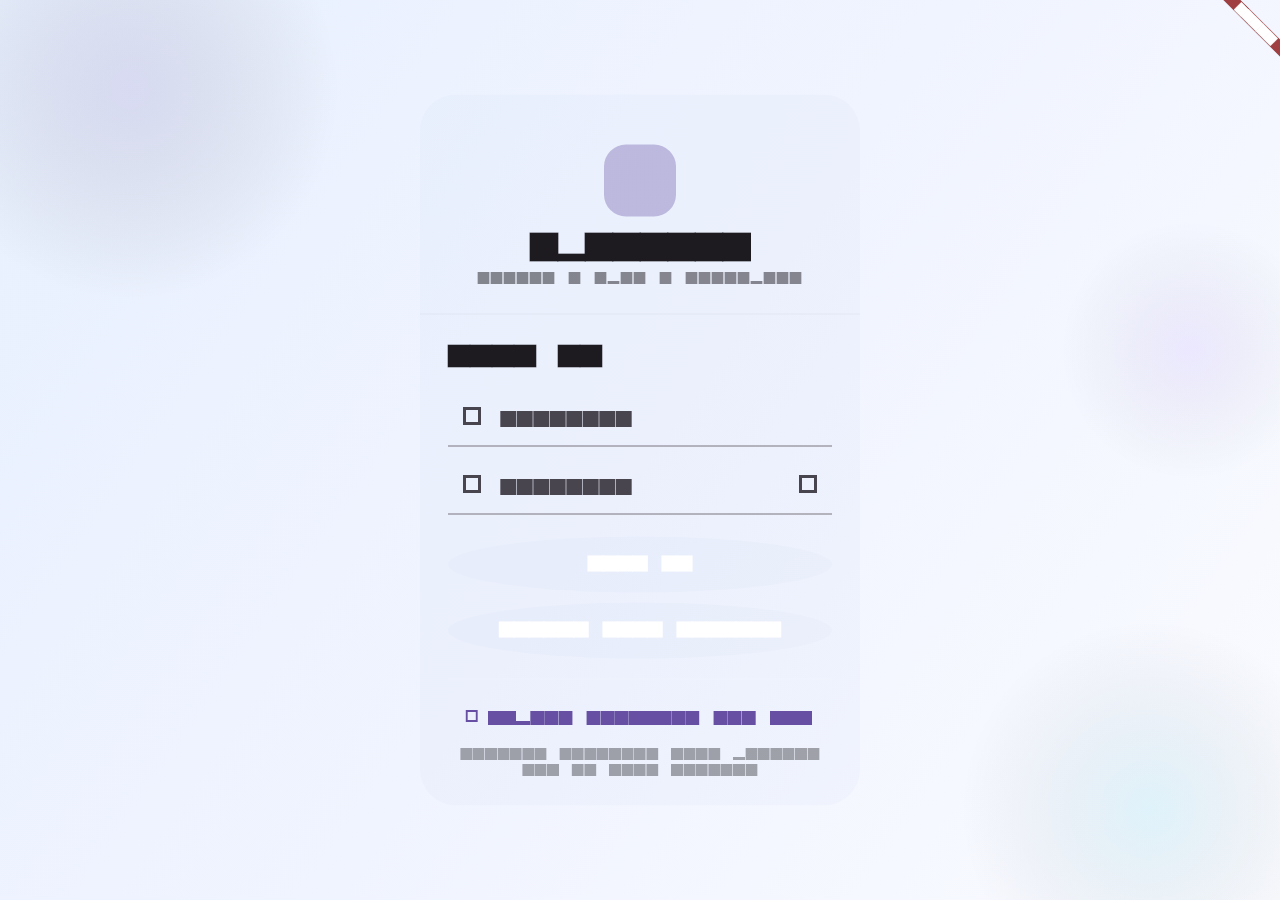
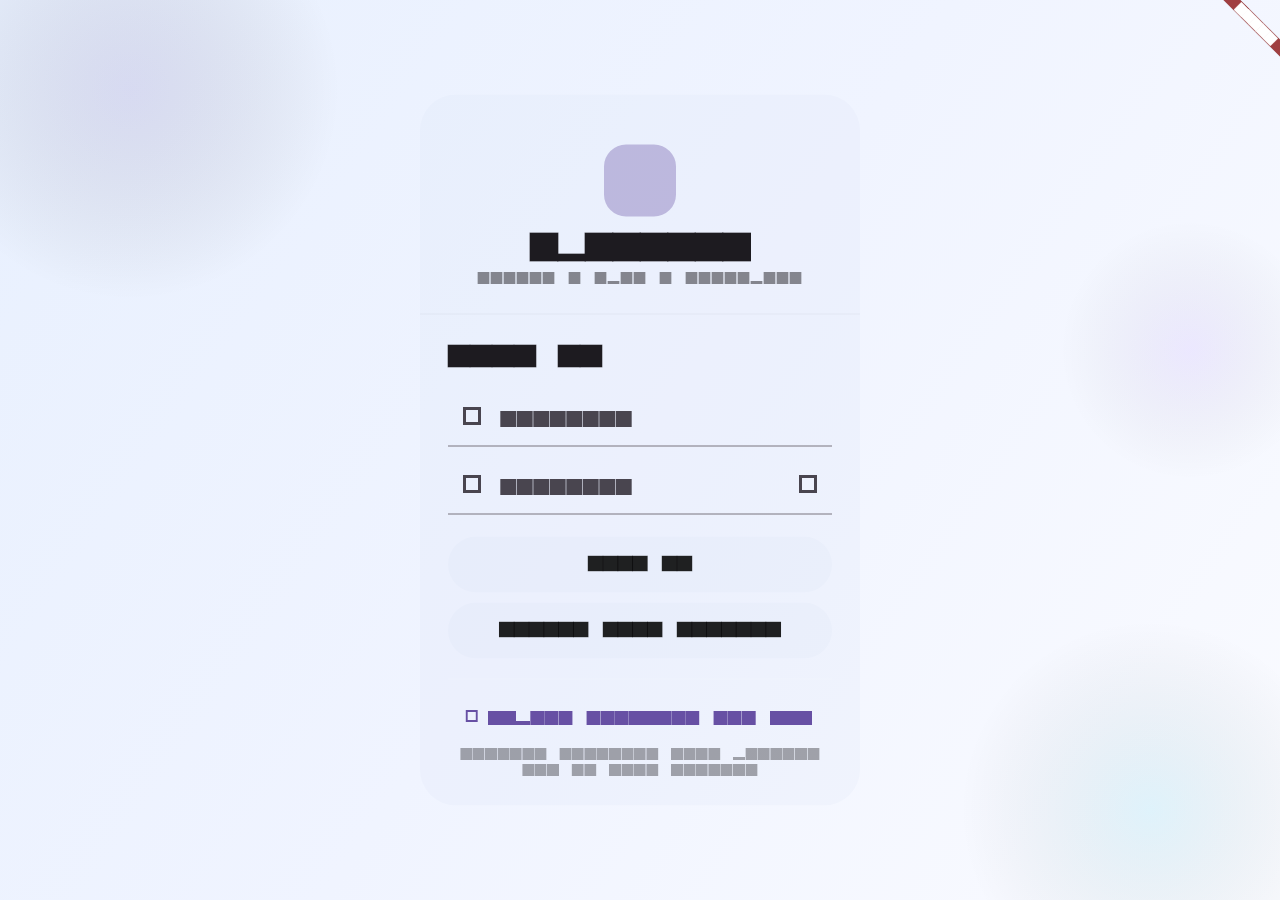
Release v0.4.19

Changed region(s): [[0.375, 0.6844, 0.625, 0.7156], [0.4375, 0.5911, 0.5625, 0.6533]]

diff --git a/lib/app.dart b/lib/app.dart
@@ -73,8 +73,19 @@ class OpenChatApp extends StatelessWidget {
         );
         final callExtra = context
             .select<CallProvider, double>((cp) => cp.minimizedContentTopInset);
-        final locExtra = context
+        // Suppress the location bar inset during a full-screen video call.
+        // The bar itself is hidden in that state (see _LocationBarOverlay) to
+        // prevent its GlassContainer's BackdropFilter from rendering above the
+        // RTCVideoView platform texture, which causes white tiles on desktop.
+        final isFullScreenVideoCall = context.select<CallProvider, bool>(
+          (cp) =>
+              cp.isInCall &&
+              cp.session?.isVideo == true &&
+              !cp.isCallMinimized,
+        );
+        final rawLocExtra = context
             .select<ChatProvider, double>((chat) => chat.liveLocationTopInset);
+        final locExtra = isFullScreenVideoCall ? 0.0 : rawLocExtra;
         final mq = MediaQuery.of(context);
 
         MediaQueryData withTop(double extra) => extra == 0
@@ -94,13 +105,24 @@ class OpenChatApp extends StatelessWidget {
             ),
             // Call bar — sees location offset so SafeArea places it below the
             // location bar when both are active.
+            // Wrapped in Material(transparency) so Text widgets inside the
+            // overlay get Material's DefaultTextStyle (no yellow underline).
             MediaQuery(
               data: withTop(locExtra),
-              child: const CallOverlay(),
+              child: const Material(
+                type: MaterialType.transparency,
+                child: CallOverlay(),
+              ),
             ),
             // Location bar — sees no extra offset → anchors at the very top.
-            const _LocationBarOverlay(),
-            const _LiveConnectionBanner(),
+            const Material(
+              type: MaterialType.transparency,
+              child: _LocationBarOverlay(),
+            ),
+            const Material(
+              type: MaterialType.transparency,
+              child: _LiveConnectionBanner(),
+            ),
           ],
           ),
         );
@@ -151,6 +173,16 @@ class _LocationBarOverlayState extends State<_LocationBarOverlay> {
     final chat = context.watch<ChatProvider>();
     final share = chat.anyActiveLiveLocationShare;
     if (share == null) return const SizedBox.shrink();
+
+    // During a full-screen video call the RTCVideoView fills the window as a
+    // platform texture. Rendering GlassContainer (BackdropFilter) above it
+    // confuses desktop compositors and produces white tiles + broken hit tests.
+    // Hide the bar until the call ends or is minimised; the inset is also
+    // suppressed in the builder above so the call chrome layout is unaffected.
+    final cp = context.watch<CallProvider>();
+    if (cp.isInCall && cp.session?.isVideo == true && !cp.isCallMinimized) {
+      return const SizedBox.shrink();
+    }
 
     final scheme = Theme.of(context).colorScheme;
     final remaining = share.expiresAt.difference(DateTime.now());

diff --git a/lib/widgets/glass.dart b/lib/widgets/glass.dart
@@ -86,10 +86,13 @@ class LiquidGlass extends StatelessWidget {
     final cornerR = borderRadius.topLeft.x.clamp(0.0, 200.0);
 
     // Map our borderRadius to the package's LiquidShape:
-    // – 999 → LiquidOval (true pill)
+    // – 999 → LiquidRoundedSuperellipse(999) (iOS squircle-capsule)
     // – anything else → LiquidRoundedSuperellipse (Apple squircle)
+    // Note: LiquidOval maps to OvalBorder (a geometric ellipse) which looks
+    // wrong on non-square or wide widgets — use LiquidRoundedSuperellipse(999)
+    // for all capsule/pill shapes instead.
     final shape = isCapsule
-        ? const LiquidOval()
+        ? const LiquidRoundedSuperellipse(borderRadius: 999)
         : LiquidRoundedSuperellipse(borderRadius: cornerR);
 
     final shadow = boxShadow ??
@@ -622,15 +625,20 @@ class GlassButtonWidget extends StatelessWidget {
 
   @override
   Widget build(BuildContext context) {
-    final scheme = Theme.of(context).colorScheme;
+    final isDark = Theme.of(context).brightness == Brightness.dark;
+    // Glass surface tracks the ambient theme — use white text in dark mode
+    // and near-black text in light mode. If a tint color is given, honour it.
     final fg = foregroundColor ??
-        (ThemeData.estimateBrightnessForColor(color ?? scheme.primary) ==
-                Brightness.dark
-            ? Colors.white
-            : Colors.black87);
+        (color != null
+            ? (ThemeData.estimateBrightnessForColor(color!) == Brightness.dark
+                ? Colors.white
+                : Colors.black87)
+            : (isDark ? Colors.white : Colors.black87));
 
     return GlassButton.custom(
       onTap: onPressed ?? () {},
+      enabled: onPressed != null,
+      shape: const LiquidRoundedSuperellipse(borderRadius: 999),
       child: Padding(
         padding: padding,
         child: DefaultTextStyle(

diff --git a/lib/services/desktop_tray_service.dart b/lib/services/desktop_tray_service.dart
@@ -46,7 +46,16 @@ class DesktopTrayService with WindowListener, TrayListener {
     try {
       trayManager.addListener(this);
       await trayManager.setIcon(_appIconAsset);
-      await trayManager.setToolTip(_appName);
+
+      // setToolTip is not implemented on Linux (AppIndicator has no tooltip
+      // API), so wrap it independently so a MissingPluginException here cannot
+      // prevent the context menu from being registered.
+      try {
+        await trayManager.setToolTip(_appName);
+      } catch (_) {
+        // Silently ignore — tooltip is cosmetic only.
+      }
+
       // Two items only: Show brings the window back; Exit quits cleanly.
       // "Hide to tray" is omitted — closing or minimising already hides.
       await trayManager.setContextMenu(Menu(items: [
@@ -67,11 +76,15 @@ class DesktopTrayService with WindowListener, TrayListener {
 
   @override
   void onTrayIconMouseDown() {
-    // On macOS the status-bar item click is handled by the OS: it already pops
-    // the context menu automatically.  Calling _showWindow() here would open
-    // the window *and* the menu at the same time, which is confusing.
-    // On Windows and Linux a left-click means "restore the window".
-    if (Platform.isMacOS) return;
+    if (Platform.isMacOS) {
+      // On macOS the tray_manager native code does NOT auto-show the context
+      // menu — it only fires this event.  We must call popUpContextMenu()
+      // explicitly.  Directly restoring the window on left-click would be
+      // non-standard; showing the menu lets the user choose "Show" or "Exit".
+      unawaited(trayManager.popUpContextMenu());
+      return;
+    }
+    // Windows / Linux: left-click = restore the window immediately.
     unawaited(_showWindow());
   }
 

diff --git a/lib/services/call_service.dart b/lib/services/call_service.dart
@@ -434,9 +434,10 @@ class CallService {
 
   bool get _supportsNativeMicrophoneMute {
     if (kIsWeb) return false;
-    return defaultTargetPlatform == TargetPlatform.android ||
-        defaultTargetPlatform == TargetPlatform.iOS ||
-        defaultTargetPlatform == TargetPlatform.macOS;
+    // Try native mute on all non-web platforms — the call already wraps the
+    // invocation in catchError so MissingPluginException on unimplemented
+    // platforms is silently swallowed.
+    return true;
   }
 
   void setCameraEnabled(bool enabled) {
@@ -450,7 +451,8 @@ class CallService {
         defaultTargetPlatform != TargetPlatform.android &&
         defaultTargetPlatform != TargetPlatform.iOS &&
         defaultTargetPlatform != TargetPlatform.macOS &&
-        defaultTargetPlatform != TargetPlatform.windows) {
+        defaultTargetPlatform != TargetPlatform.windows &&
+        defaultTargetPlatform != TargetPlatform.linux) {
       return const [];
     }
     try {

diff --git a/lib/screens/chat/chat_screen.dart b/lib/screens/chat/chat_screen.dart
@@ -2199,7 +2199,7 @@ class _ChatScreenState extends State<ChatScreen> {
                       onTap: _sendMessage,
                       onLongPress: _showSendOptions,
                       child: GlassContainer(
-                        shape: const LiquidOval(),
+                        shape: const LiquidRoundedSuperellipse(borderRadius: 999),
                         allowElevation: true,
                         glowIntensity: 0.08,
                         padding: const EdgeInsets.all(12),

diff --git a/lib/screens/channels/channel_screen.dart b/lib/screens/channels/channel_screen.dart
@@ -2476,7 +2476,7 @@ class ChannelPostBar extends StatelessWidget {
                   onTap: onPost,
                   onLongPress: onOptions,
                   child: GlassContainer(
-                    shape: const LiquidOval(),
+                    shape: const LiquidRoundedSuperellipse(borderRadius: 999),
                     allowElevation: true,
                     glowIntensity: 0.08,
                     padding: const EdgeInsets.all(12),

diff --git a/lib/screens/profile/user_profile_screen.dart b/lib/screens/profile/user_profile_screen.dart
@@ -466,7 +466,7 @@ class _UserProfileScreenState extends State<UserProfileScreen> {
                         ),
                       ),
                       const SizedBox(height: 12),
-                      FilledButton.icon(
+                      GlassButtonWidget.icon(
                         onPressed: submitting ? null : submit,
                         icon: submitting
                             ? const SizedBox(
